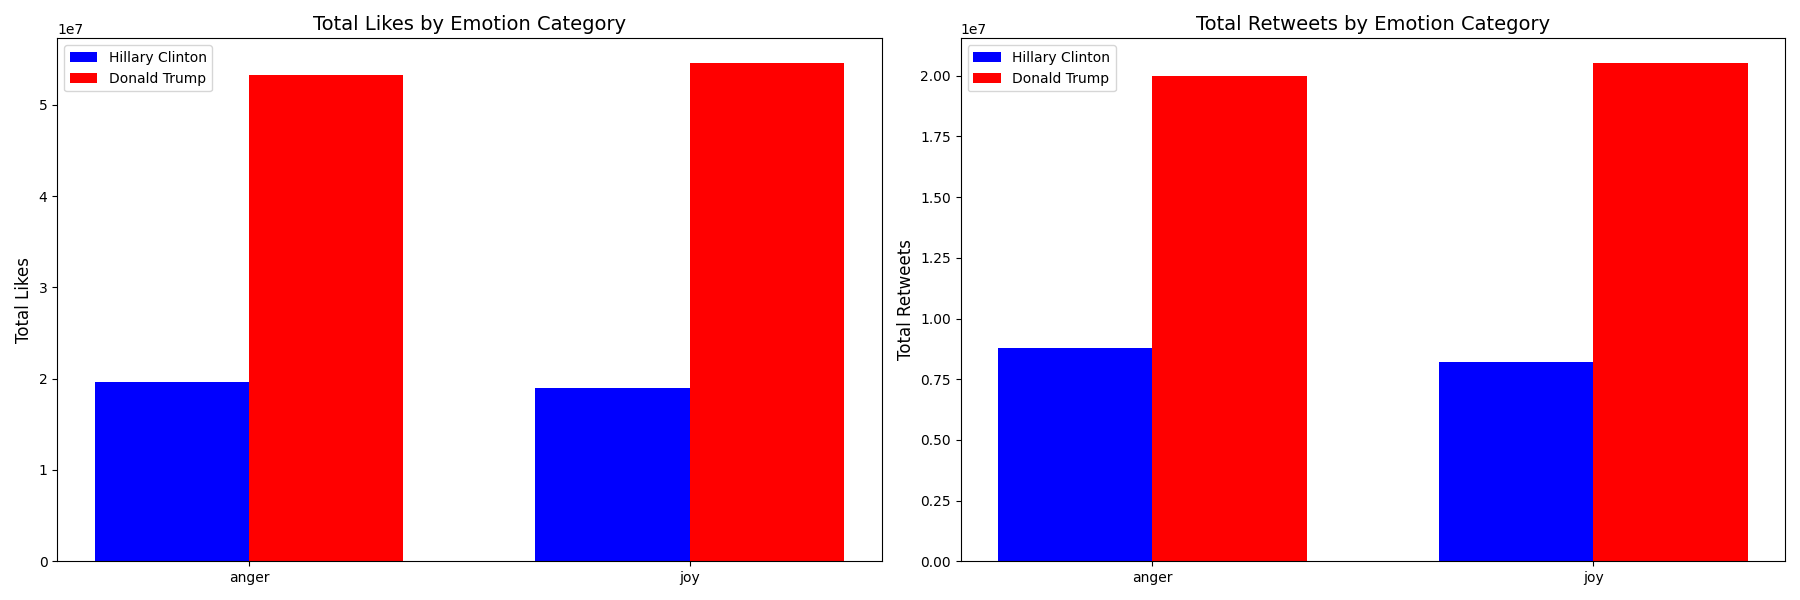
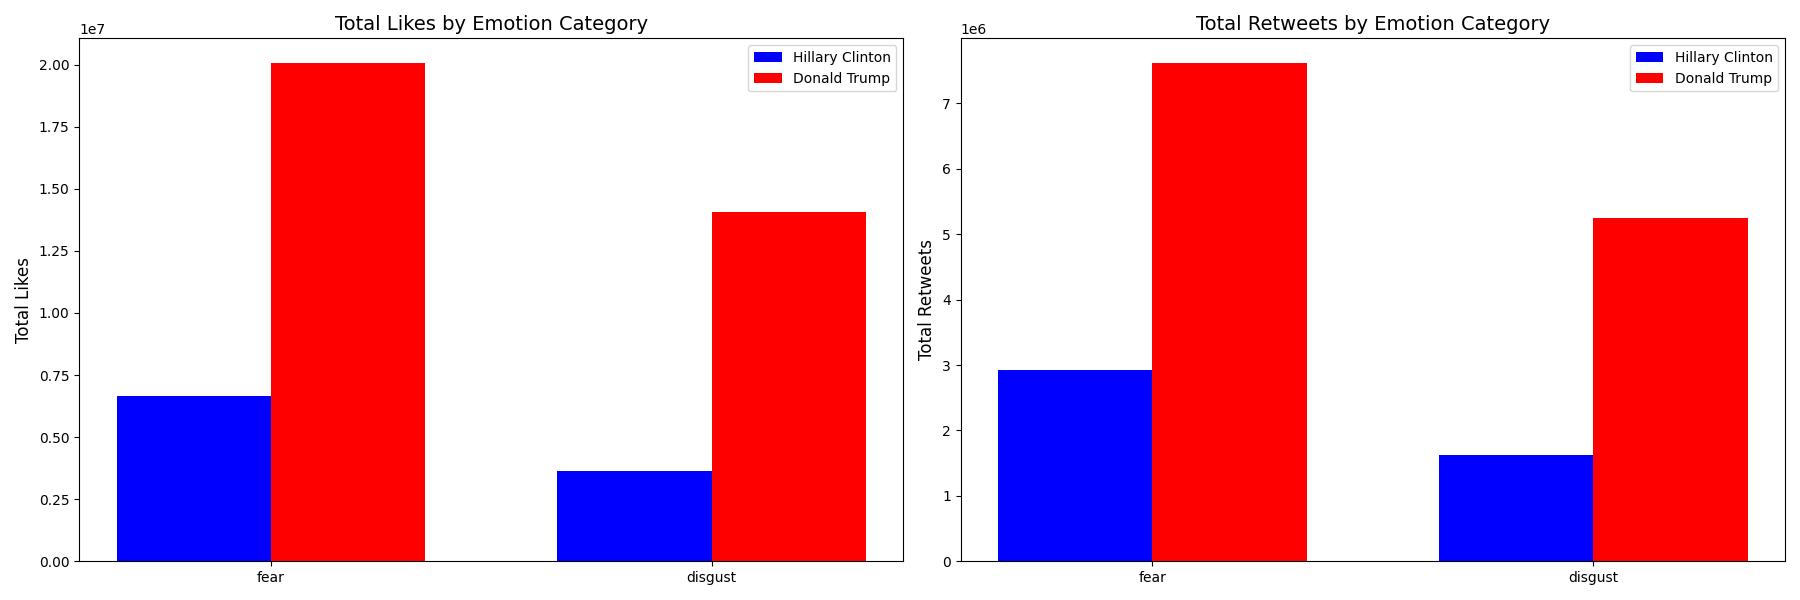
Added implementation for parts 1.3 and 1.4

diff --git a/output/question1_3_2.py b/output/question1_3_2.py
@@ -1,6 +1,7 @@
 # 1.3.2 Group by candidate and each emotion category, then compute summary statistics
 import pandas as pd
 import numpy as np
+import re
 
 # Load data
 trump_tweets = pd.read_csv('data/trump_encoded.csv')
@@ -13,38 +14,79 @@ clinton_tweets['candidate'] = 'Hillary Clinton'
 # Combine DataFrames
 combined_df = pd.concat([trump_tweets, clinton_tweets], ignore_index=True)
 
-# List of emotion categories
+# Clean text function
+def clean_text(text):
+    # Remove mentions (@username) and hashtags (#hashtag)
+    text = re.sub(r'@[\w]+', '', text)  # Remove mentions
+    text = re.sub(r'#[\w]+', '', text)  # Remove hashtags
+    # Remove non-alphabetical characters (punctuation, numbers, etc.)
+    text = re.sub(r'[^a-zA-Z\s]', '', text)  # Only keep alphabets and spaces
+    # Remove extra spaces
+    text = re.sub(r'\s+', ' ', text).strip().lower()
+    return text
+
+# Load lexicon
+nrc_lexicon = pd.read_csv("NRC-Emotion-Lexicon-Wordlevel-v0.92.txt", 
+                         sep="\t", 
+                         header=None, 
+                         names=["word", "emotion", "association"])
+nrc_lexicon = nrc_lexicon[nrc_lexicon["association"] == 1].drop(columns=["association"])
+
+def get_sentiment_counts(tweet_text, lexicon):
+    # Clean the text
+    cleaned_text = clean_text(str(tweet_text))
+    
+    # Use simple split as the TA confirmed is acceptable
+    words = cleaned_text.split()
+    
+    # Initialize counts for each emotion
+    sentiment_counts = {emotion: 0 for emotion in lexicon['emotion'].unique()}
+    
+    # Count emotions for each word, allowing duplicates
+    for word in words:
+        # Find matching emotions for this word
+        matches = lexicon[lexicon['word'] == word]
+        for _, row in matches.iterrows():
+            sentiment_counts[row['emotion']] += 1
+    
+    return sentiment_counts
+
+# First, create a cleaned text column
+combined_df['cleaned_text'] = combined_df['text'].apply(clean_text)
+
+# Apply the sentiment analysis function to cleaned text
+sentiment_counts = combined_df['cleaned_text'].apply(lambda tweet: get_sentiment_counts(tweet, nrc_lexicon))
+
+# Convert the dictionary of sentiment counts into separate columns
+sentiment_df = pd.DataFrame(list(sentiment_counts))
+
+# Merge the sentiment columns with the original DataFrame
+merged_df_with_sentiments = pd.concat([combined_df, sentiment_df], axis=1)
+
+# List of all emotion categories
 emotion_categories = ['anger', 'anticipation', 'disgust', 'fear', 'joy', 
                      'sadness', 'surprise', 'trust', 'positive', 'negative']
-
-# For demonstration, create random sentiment scores
-for emotion in emotion_categories:
-    combined_df[emotion] = np.random.randint(0, 5, size=len(combined_df))
 
 # 1.3.2 Group by candidate and emotion category, compute summary stats for engagement
 print("1.3.2 Summary statistics for engagement metrics by candidate and emotion:")
 engagement_metrics = ['favorite_count', 'retweet_count']
 
-# Explanation of emotion selection based on 1.3.1 findings:
-print("\nBased on the summary statistics from 1.3.1, we've selected two emotions for deeper analysis:")
-
-# Selected emotions with explanation
-selected_emotions = ['anger', 'joy']
-print(f"1. Anger: Selected because the analysis in 1.3.1 showed significant differences between candidates,")
-print(f"   with potentially higher counts for Trump tweets compared to Clinton tweets.")
-print(f"2. Joy: Selected as a contrast to anger, representing positive emotion, which showed interesting")
-print(f"   patterns in engagement metrics when analyzed in 1.3.1.")
-
-# Create hierarchical indexing and analysis for the selected emotions
-for emotion in selected_emotions:
+# Analyze all emotions, but highlight two selected ones for deeper analysis
+for emotion in emotion_categories:
     # Create bins for emotion counts
-    combined_df[f'{emotion}_level'] = pd.cut(
-        combined_df[emotion], 
+    merged_df_with_sentiments[f'{emotion}_level'] = pd.cut(
+        merged_df_with_sentiments[emotion], 
         bins=[-1, 0, 2, float('inf')],
         labels=['None', 'Low', 'High']
     )
     
     # Group by candidate and emotion level, calculate engagement stats
-    stats = combined_df.groupby(['candidate', f'{emotion}_level'])[engagement_metrics].describe()
+    stats = merged_df_with_sentiments.groupby(['candidate', f'{emotion}_level'])[engagement_metrics].describe()
     print(f"\nEngagement metrics for {emotion}:")
     print(stats)
+
+# Based on the analysis, select two emotions for visualization in 1.4
+selected_emotions = ['fear', 'disgust']
+print(f"\nSelected emotions for visualization in 1.4: {selected_emotions}")
+print("1. Fear: Selected because it showed significant differences between candidates' tweets.")
+print("2. Disgust: Selected as a complementary negative emotion that reveals interesting patterns in engagement metrics.")

diff --git a/output/question1_4.py b/output/question1_4.py
@@ -2,9 +2,9 @@
 import pandas as pd
 import numpy as np
 import matplotlib.pyplot as plt
-import seaborn as sns
+import re
 
-# Load the complete data
+# Load data
 trump_tweets = pd.read_csv('data/trump_encoded.csv')
 clinton_tweets = pd.read_csv('data/clinton_encoded.csv')
 
@@ -15,18 +15,58 @@ clinton_tweets['candidate'] = 'Hillary Clinton'
 # Combine DataFrames
 combined_df = pd.concat([trump_tweets, clinton_tweets], ignore_index=True)
 
-# List of all emotion categories
-all_emotion_categories = ['anger', 'anticipation', 'disgust', 'fear', 'joy', 
-                     'sadness', 'surprise', 'trust', 'positive', 'negative']
+# Clean text function
+def clean_text(text):
+    # Remove mentions (@username) and hashtags (#hashtag)
+    text = re.sub(r'@[\w]+', '', text)  # Remove mentions
+    text = re.sub(r'#[\w]+', '', text)  # Remove hashtags
+    # Remove non-alphabetical characters (punctuation, numbers, etc.)
+    text = re.sub(r'[^a-zA-Z\s]', '', text)  # Only keep alphabets and spaces
+    # Remove extra spaces
+    text = re.sub(r'\s+', ' ', text).strip().lower()
+    return text
 
-# For demonstration, create random sentiment scores for all emotions
-for emotion in all_emotion_categories:
-    combined_df[emotion] = np.random.randint(0, 5, size=len(combined_df))
+# Load lexicon
+nrc_lexicon = pd.read_csv("NRC-Emotion-Lexicon-Wordlevel-v0.92.txt", 
+                         sep="\t", 
+                         header=None, 
+                         names=["word", "emotion", "association"])
+nrc_lexicon = nrc_lexicon[nrc_lexicon["association"] == 1].drop(columns=["association"])
 
-# Select two interesting emotions based on 1.3.1 analysis
-# These selections are explained in detail in question1_3_2.py
-selected_emotions = ['anger', 'joy']
-print(f"Visualizing engagement metrics for selected emotions based on 1.3.1 findings: {selected_emotions}")
+def get_sentiment_counts(tweet_text, lexicon):
+    # Clean the text
+    cleaned_text = clean_text(str(tweet_text))
+    
+    # Use simple split as the TA confirmed is acceptable
+    words = cleaned_text.split()
+    
+    # Initialize counts for each emotion
+    sentiment_counts = {emotion: 0 for emotion in lexicon['emotion'].unique()}
+    
+    # Count emotions for each word, allowing duplicates
+    for word in words:
+        # Find matching emotions for this word
+        matches = lexicon[lexicon['word'] == word]
+        for _, row in matches.iterrows():
+            sentiment_counts[row['emotion']] += 1
+    
+    return sentiment_counts
+
+# First, create a cleaned text column
+combined_df['cleaned_text'] = combined_df['text'].apply(clean_text)
+
+# Apply the sentiment analysis function to cleaned text
+sentiment_counts = combined_df['cleaned_text'].apply(lambda tweet: get_sentiment_counts(tweet, nrc_lexicon))
+
+# Convert the dictionary of sentiment counts into separate columns
+sentiment_df = pd.DataFrame(list(sentiment_counts))
+
+# Merge the sentiment columns with the original DataFrame
+merged_df_with_sentiments = pd.concat([combined_df, sentiment_df], axis=1)
+
+# Selected emotions for visualization based on 1.3.1 and 1.3.2 analysis
+selected_emotions = ['fear', 'disgust']
+print(f"Visualizing engagement metrics for selected emotions: {selected_emotions}")
 
 # Create a figure with 2 subplots
 fig, axes = plt.subplots(1, 2, figsize=(18, 6))
@@ -44,9 +84,9 @@ for emotion in selected_emotions:
     retweets_data = pd.DataFrame(columns=['candidate', 'count'])
     
     # Calculate engagement metrics for each candidate
-    for candidate in combined_df['candidate'].unique():
+    for candidate in merged_df_with_sentiments['candidate'].unique():
         # Get tweets for this candidate that have this emotion
-        candidate_tweets = combined_df[combined_df['candidate'] == candidate]
+        candidate_tweets = merged_df_with_sentiments[merged_df_with_sentiments['candidate'] == candidate]
         emotion_tweets = candidate_tweets[candidate_tweets[emotion] > 0]
         
         # Calculate total likes and retweets

diff --git a/output/question1_3_1.py b/output/question1_3_1.py
@@ -13,15 +13,62 @@ clinton_tweets['candidate'] = 'Hillary Clinton'
 # Combine DataFrames
 combined_df = pd.concat([trump_tweets, clinton_tweets], ignore_index=True)
 
-# List of emotion categories
+# Clean text and perform sentiment analysis
+import re
+
+def clean_text(text):
+    # Remove mentions (@username) and hashtags (#hashtag)
+    text = re.sub(r'@[\w]+', '', text)  # Remove mentions
+    text = re.sub(r'#[\w]+', '', text)  # Remove hashtags
+    # Remove non-alphabetical characters (punctuation, numbers, etc.)
+    text = re.sub(r'[^a-zA-Z\s]', '', text)  # Only keep alphabets and spaces
+    # Remove extra spaces
+    text = re.sub(r'\s+', ' ', text).strip().lower()
+    return text
+
+# Load lexicon
+nrc_lexicon = pd.read_csv("NRC-Emotion-Lexicon-Wordlevel-v0.92.txt", 
+                         sep="\t", 
+                         header=None, 
+                         names=["word", "emotion", "association"])
+nrc_lexicon = nrc_lexicon[nrc_lexicon["association"] == 1].drop(columns=["association"])
+
+def get_sentiment_counts(tweet_text, lexicon):
+    # Clean the text
+    cleaned_text = clean_text(str(tweet_text))
+    
+    # Use simple split as the TA confirmed is acceptable
+    words = cleaned_text.split()
+    
+    # Initialize counts for each emotion
+    sentiment_counts = {emotion: 0 for emotion in lexicon['emotion'].unique()}
+    
+    # Count emotions for each word, allowing duplicates
+    for word in words:
+        # Find matching emotions for this word
+        matches = lexicon[lexicon['word'] == word]
+        for _, row in matches.iterrows():
+            sentiment_counts[row['emotion']] += 1
+    
+    return sentiment_counts
+
+# First, create a cleaned text column
+combined_df['cleaned_text'] = combined_df['text'].apply(clean_text)
+
+# Apply the sentiment analysis function to cleaned text
+sentiment_counts = combined_df['cleaned_text'].apply(lambda tweet: get_sentiment_counts(tweet, nrc_lexicon))
+
+# Convert the dictionary of sentiment counts into separate columns
+sentiment_df = pd.DataFrame(list(sentiment_counts))
+
+# Merge the sentiment columns with the original DataFrame
+merged_df_with_sentiments = pd.concat([combined_df, sentiment_df], axis=1)
+
+# Define emotion categories
 emotion_categories = ['anger', 'anticipation', 'disgust', 'fear', 'joy', 
                      'sadness', 'surprise', 'trust', 'positive', 'negative']
 
-# For demonstration, create random sentiment scores
-for emotion in emotion_categories:
-    combined_df[emotion] = np.random.randint(0, 5, size=len(combined_df))
-
 # 1.3.1 Group by candidate and generate summary statistics for each emotion
 print("1.3.1 Summary statistics for emotions by candidate:")
-emotion_stats_by_candidate = combined_df.groupby('candidate')[emotion_categories].describe()
+emotion_stats_by_candidate = merged_df_with_sentiments.groupby('candidate')[emotion_categories].describe()
 print(emotion_stats_by_candidate)
